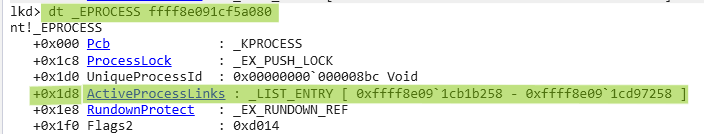
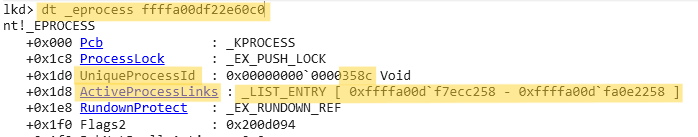
deploy

diff --git a/content/posts/02_DKOM Hiding process.md b/content/posts/02_DKOM Hiding process.md
@@ -1,7 +1,7 @@
 ---
 title: "Exploring DKOM (Direct Kernel Object Manipulation) for Process Hiding on Windows"
 date: 2025-07-29T00:12:29+01:00
-draft: true
+draft: false
 github_link: "https://github.com/gurusabarish/hugo-profile"
 author: "Durok"
 tags:
@@ -9,8 +9,8 @@ tags:
   - Kernel
   - Driver
   - Rootkit
-  - Volatility
   - Windbg
+  - Volatility
 image: /images/posts/02_DKOM/00_DKOM_Cover.png
 description: "**DKOM (Direct Kernel Object Manipulation)** technique, a well-known stealth method used by advanced malware and rootkits on Windows systems to hide processes from standard system monitoring tools."
 toc: 
@@ -120,9 +120,9 @@ Follow these steps to hide a process using DKOM in a controlled lab environment:
    - Find the entry for your target process (e.g., `notepad.exe`) and note its `EPROCESS` address.
       ![image.png](/images/posts/02_DKOM/05_Windbg2.png)
       <br><br>
-      | Process Name |   PID   | EPROCESS Address |
-      |--------------|---------|------------------|
-      | Notepad.exe  |  0x08bc | ffff8e091cf5a080 |
+      | Process Name | PID    | EPROCESS Address |
+      |--------------|--------|------------------|
+      | Notepad.exe  | 0x358c | ffffa00df22e60c0 |
 
 2. **Locate the ActiveProcessLinks Field**
    - Display the structure of the `EPROCESS` object using:
@@ -133,39 +133,41 @@ Follow these steps to hide a process using DKOM in a controlled lab environment:
    - Locate the `UniqueProcessId` field, in `Windows 11 24h2` offset is `+0x1d0`
    - Locate the `ActiveProcessLinks` field, which is part of the doubly linked list connecting all processes, in `Windows 11 24h2` the offset is `+0x1d8`.
    - Locate the `ImgageFileName` field, in `Windows 11 24h2` offset is `+0x338`
-      | Field              | Offset (Windows 11 24h2) | Description                                      |
-      |--------------------|--------------------------|--------------------------------------------------|
-      | UniqueProcessId    | 0x1d0                    | Unique identifier for the process                |
-      | ActiveProcessLinks | 0x1d8                    | Pointer to the doubly-linked list of processes   |
-      | ImageFileName      | 0x338                    | Executable file name of the process              |
+      | Field              | Offset (Windows 11 24h2) | Description                                    |
+      |--------------------|--------------------------|------------------------------------------------|
+      | UniqueProcessId    | 0x1d0                    | Unique identifier for the process              |
+      | ActiveProcessLinks | 0x1d8                    | Pointer to the doubly-linked list of processes |
+      | ImageFileName      | 0x338                    | Executable file name of the process            |
 
    - Read the `Flink` and `Blink` pointers from the `ActiveProcessLinks` field.
       ```
       # Abstract
+      dt nt!_EPROCESS <EPROCESS_address> ActiveProcessLinks
       dq <EPROCESS_address> + <ActiveProcessLinks_offset> L2
       
       # Our case
-      dq ffff8e091cf5a080 + 0x1d8 L2
+      dt nt!_EPROCESS ffffa00df22e60c0 ActiveProcessLinks
+      dq ffffa00df22e60c0 + 0x1d8 L2
       ```
       ![image.png](/images/posts/02_DKOM/07_Windbg4.png)
       <br><br>
-      | Process Name | PID    | EPROCESS Address | FLINK Address     | BLINK Address     |
-      |--------------|--------|------------------|-------------------|-------------------|
-      | Notepad.exe  | 0x08bc | ffff8e091cf5a080 | ffff8e09`1cb1b258 | ffff8e09`1cd97258 |
+      | Process Name | PID    | EPROCESS Address | ActiveProcessLinks | FLINK             | BLINK             |
+      |--------------|--------|------------------|--------------------|-------------------|-------------------|
+      | Notepad.exe  | 0x358c | ffffa00df22e60c0 | ffffa00d`f22e6298  | ffffa00d`f7ecc258 | ffffa00d`fa0e2258 |
 
 3. **Gather Information on Neighboring Processes (PID and ImageFileName)**
    - Identify the processes `ImageFileName` immediately before and after your target in the linked list by examining the `Flink` and `Blink` pointers.
       ```
       # +0x338 is the `ImageFileName` offset
-      da  ffff8e09`1cb1b258 - 0x1d8 + 0x338
-      da  ffff8e09`1cd97258 - 0x1d8 + 0x338
+      da  ffffa00d`f7ecc258 - 0x1d8 + 0x338
+      da  ffffa00d`fa0e2258 - 0x1d8 + 0x338
       ```
 
       ![image.png](/images/posts/02_DKOM/08_Windbg5.png)
    
    - Identify the `UniqueProcessId` and `EPROCESS` addresses of the neighboring processes.
       ```
-      # vcpkgsrv.exe
+      # WidgetBoard.exe
       dd  ffff8e09`1cb1b258 - 0x1d8 + 0x1d0 L1
       !process 2e10 0
       # EngHost.exe
@@ -189,23 +191,24 @@ Follow these steps to hide a process using DKOM in a controlled lab environment:
       ![image.png](/images/posts/02_DKOM/12_Windbg9.png)
 
    - Note the `Process ID (PID)`, `ImageFileName`, `EPROCESS`, `ActiveProcessLinks`, `FLINK`, `BLINK` for both neighboring processes. This ensures you are correctly identifying the links you need to update when unlinking the target process.
-      | Position | Process Name | PID    | EPROCESS Address | ActiveProcessLinks | FLINK Address    | BLINK Address    |
+      | Position | Process Name | PID    | EPROCESS Address | ActiveProcessLinks | FLINK Address +0 | BLINK Address +8 |
       |----------|--------------|--------|------------------|--------------------|------------------|------------------|
-      | Forward  | vcpkgsrv.exe | 0x2e10 | ffff8e091cb1b080 | ffff8e091cb1b258   | ffff8e091ed8a258 | ffff8e091cf5a258 |
+      | Backward | EngHost.exe  | 0x1c3c | ffff8e091cd97080 | ffff8e091cd97258   | ffff8e091cf5a258 | ffff8e091ed60258 |
       | -        | Notepad.exe  | 0x08bc | ffff8e091cf5a080 | ffff8e091cf5a258   | ffff8e091cb1b258 | ffff8e091cd97258 |
-      | Back     | EngHost.exe  | 0x1c3c | ffff8e091cd97080 | ffff8e091cd97258   | ffff8e091cf5a258 | ffff8e091ed60258 |
+      | Forward  | vcpkgsrv.exe | 0x2e10 | ffff8e091cb1b080 | ffff8e091cb1b258   | ffff8e091ed8a258 | ffff8e091cf5a258 |
+
 
 
 4. **Unlink the Process**
 To manipulate these links and remove the `Notepad.exe` process from the active list, update the following pointers:
-   - Change the value of `FLINK` `vcpkgsrv.exe` in `ffff8e091cb1b258` to `FLINK` `EngHost.exe` in `ffff8e091cd97258`
+   - Point `EngHost.exe` `FLINK` in `ffff8e091cd97258` to `FLINK` `vcpkgsrv.exe` in `ffff8e091cb1b258`
       ```
-      eq ffff8e091cb1b258 ffff8e091cd97258
+      eq ffff8e091cd97258 ffff8e091cb1b258
       ```
-   - Change the value of `BLINK` `EngHost.exe` at `ffff8e091cd97258 + 8` to `FLINK` `vcpkgsrv.exe` at `ffff8e091cb1b258`.
+   - Point `BLINK` `vcpkgsrv.exe` at `ffff8e091cb1b258 + 8` to `FLINK` `EngHost.exe` at `ffff8e091cd97258`.
       ```
       # +8 because LIST_ENTRY has two FLINK/BLINK fields and each is 8 bytes
-      eq ffff8e091cd97258+8 ffff8e091cb1b258
+      eq ffff8e091cb1b258 + 8 ffff8e091cd97258
       ```
 
 5. **Verify the Process is Hidden**
